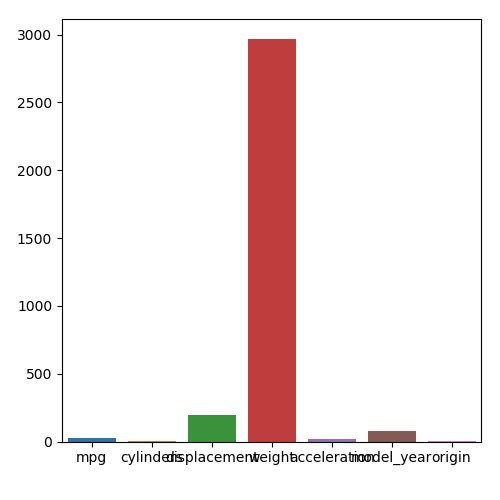
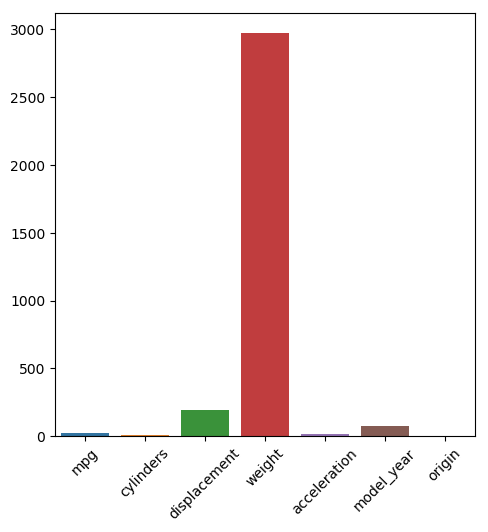
Fixed bbox size so saving figs to png doesn't chop off xtick labels

Changed region(s): [[0.0, 0.0, 0.9836, 0.99], [0.4918, 0.06, 0.6148, 0.09]]

diff --git a/DataVis.py b/DataVis.py
@@ -11,7 +11,7 @@ import DV_DC_Control_Panels
 import DV_DC_Listbox
 import DV_EDA_Control_Panels
 import DV_EDA_Listbox
-import DV_Table
+import DV_DC_Table
 import DV_Toolbar
 
 
@@ -56,11 +56,11 @@ class DataVis():
         # Create tab for data cleaning
         #############################
         self.DC_Bottom_Pane = DC_Bottom_Pane = tk.PanedWindow(note)
-        DC_Bottom_Pane.config(orient='vertical', bd=1, sashwidth=4, bg='black')
+        DC_Bottom_Pane.config(orient='vertical', sashwidth=4)
         DC_Bottom_Pane.grid(sticky='nsew')
 
         self.DC_Top_Pane = DC_Top_Pane = tk.PanedWindow(DC_Bottom_Pane)
-        DC_Top_Pane.config(orient='horizontal', bd=1, sashwidth=4, bg='black')
+        DC_Top_Pane.config(orient='horizontal', sashwidth=4)
         DC_Top_Pane.grid(sticky='nsew')
         DC_Bottom_Pane.add(DC_Top_Pane, stretch='always')
 
@@ -81,7 +81,7 @@ class DataVis():
         DC_Table_Frame.grid_columnconfigure(0, weight=1)
         DC_Top_Pane.add(DC_Table_Frame, stretch='always')
 
-        self.table = table = DV_Table.DV_Table(DC_Table_Frame)
+        self.table = table = DV_DC_Table.DV_DC_Table(DC_Table_Frame)
         table.grid(sticky='nsew')
         
         # add various control frames here
@@ -113,7 +113,7 @@ class DataVis():
         EDA_Top_Pane.add(EDA_Listbox_Frame, stretch='never')
 
         self.EDA_Canvas_Frame = EDA_Canvas_Frame = tk.Frame(EDA_Top_Pane)
-        EDA_Canvas_Frame.config(bg='orange')
+        EDA_Canvas_Frame.config(bg='black')
         EDA_Canvas_Frame.grid(sticky='nsew')
         EDA_Canvas_Frame.grid_rowconfigure(0, weight=1)
         EDA_Canvas_Frame.grid_columnconfigure(0, weight=1)
@@ -123,19 +123,27 @@ class DataVis():
         #self.EDA_Canvas = EDA_Canvas = FigureCanvasTkAgg(fig, master=EDA_Canvas_Frame)
         #EDA_Canvas.get_tk_widget().grid(sticky='nsew')
 
-        self.pp_controls = pp_controls = DV_EDA_Control_Panels.PP_Frame(EDA_Controls_Frame, EDA_Canvas_Frame)
-        #self.pp_controls = pp_controls = ppControlsTest.PP_Frame(EDA_Controls_Frame, EDA_Canvas)
-        self.cm_controls = cm_controls = DV_EDA_Control_Panels.CM_Frame(EDA_Controls_Frame, EDA_Canvas_Frame)
-        self.bp_controls = bp_controls = DV_EDA_Control_Panels.BP_Frame(EDA_Controls_Frame, EDA_Canvas_Frame)
-        self.sp_controls = sp_controls = DV_EDA_Control_Panels.SP_Frame(EDA_Controls_Frame, EDA_Canvas_Frame)
-        self.pca_controls = pca_controls = DV_EDA_Control_Panels.PCA_Frame(EDA_Controls_Frame, EDA_Canvas_Frame)
+        pp_controls = DV_EDA_Control_Panels.PP_Frame(EDA_Controls_Frame, EDA_Canvas_Frame)
+        #pp_controls = ppControlsTest.PP_Frame(EDA_Controls_Frame, EDA_Canvas)
+        cm_controls = DV_EDA_Control_Panels.CM_Frame(EDA_Controls_Frame, EDA_Canvas_Frame)
+        bp_controls = DV_EDA_Control_Panels.BP_Frame(EDA_Controls_Frame, EDA_Canvas_Frame)
+        sp_controls = DV_EDA_Control_Panels.SP_Frame(EDA_Controls_Frame, EDA_Canvas_Frame)
+        pca_controls = DV_EDA_Control_Panels.PCA_Frame(EDA_Controls_Frame, EDA_Canvas_Frame)
+        placeholder_frame = tk.Frame(EDA_Controls_Frame)
+        placeholder_frame.grid(row=0, column=0, sticky='nsew')
+        placeholder_frame.grid_rowconfigure(0, weight=1)
+        placeholder_frame.grid_columnconfigure(0, weight=1)
+        hint_frame = tk.Frame(placeholder_frame)
+        hint_frame.grid(row=0, column=0)
+        select_start = tk.Label(hint_frame, text='Select a graph type to begin EDA')
+        select_start.grid(sticky='nsew')
 
         self.control_frames = control_frames = {}
 
         for frame in (pp_controls, cm_controls, bp_controls, sp_controls, pca_controls):
             frame.grid(row=0, column=0, sticky='nsew')
             control_frames[frame._name] = frame
-        pp_controls.tkraise()
+        placeholder_frame.tkraise()
 
         self.EDA_Listbox = EDA_Listbox = DV_EDA_Listbox.EDA_Listbox(EDA_Listbox_Frame, EDA_Canvas_Frame, control_frames)
 

diff --git a/DV_EDA_Listbox.py b/DV_EDA_Listbox.py
@@ -182,7 +182,7 @@ class EDA_Listbox(tk.Listbox):
                     # create and display custom graph
                     plt.clf()
                     cm = sns.heatmap(data=data, annot=cm_annot, cbar=cm_cbar, square=cm_square)
-                    cm.get_figure().savefig('cm.png')
+                    cm.get_figure().savefig('cm.png', bbox_inches='tight')
                     """
                     fig.clear()
                     a = fig.add_subplot(111)
@@ -203,7 +203,7 @@ class EDA_Listbox(tk.Listbox):
                     data = data.corr()
                     plt.clf()
                     cm = sns.heatmap(data=data)
-                    cm.get_figure().savefig('cm.png')
+                    cm.get_figure().savefig('cm.png', bbox_inches='tight')
                     """
                     fig.clear()
                     a = fig.add_subplot(111)
@@ -271,7 +271,8 @@ class EDA_Listbox(tk.Listbox):
                     # create and display custom graph
                     plt.clf()
                     bp = sns.barplot(data=data, x=bp_x, y=bp_y, hue=bp_hue, ci=bp_ci)
-                    bp.figure.savefig('bp.png')
+                    plt.xticks(rotation=45)
+                    bp.figure.savefig('bp.png', bbox_inches='tight')
                     """
                     fig.clear()
                     a = fig.add_subplot(111)
@@ -291,7 +292,8 @@ class EDA_Listbox(tk.Listbox):
                     data = data.dropna()
                     plt.clf()
                     bp = sns.barplot(data=data, x='month', y='passengers', ci=None)
-                    bp.figure.savefig('bp.png')
+                    plt.xticks(rotation=45)
+                    bp.figure.savefig('bp.png', bbox_inches='tight')
                     """
                     fig.clear()
                     a = fig.add_subplot(111)

diff --git a/DV_EDA_Control_Panels.py b/DV_EDA_Control_Panels.py
@@ -329,7 +329,7 @@ class CM_Frame(tk.Frame):
         """
         plt.clf()
         cm = sns.heatmap(data=self.data, annot=preview_annot, cbar=preview_cbar, square=preview_square)
-        cm.get_figure().savefig('cm.png')
+        cm.get_figure().savefig('cm.png', bbox_inches='tight')
         file = 'cm.png'
         canvas = DV_ZoomableCanvas.ZoomCanvas(canvas_frame, file)
         canvas.grid()
@@ -361,7 +361,7 @@ class CM_Frame(tk.Frame):
         """
         plt.clf()
         cm = sns.heatmap(data=self.data, annot=apply_annot, cbar=apply_cbar, square=apply_square)
-        cm.get_figure().savefig('cm.png')
+        cm.get_figure().savefig('cm.png', bbox_inches='tight')
         file = 'cm.png'
         canvas = DV_ZoomableCanvas.ZoomCanvas(canvas_frame, file)
         canvas.grid()
@@ -546,7 +546,8 @@ class BP_Frame(tk.Frame):
 
         plt.clf()
         bp = sns.barplot(data=self.data, x=preview_x, y=preview_y, hue=preview_hue, ci=preview_ci)
-        bp.figure.savefig('bp.png')
+        plt.xticks(rotation=45)
+        bp.figure.savefig('bp.png', bbox_inches='tight')
         """
         fig.clear()
         a = fig.add_subplot(111)
@@ -596,7 +597,8 @@ class BP_Frame(tk.Frame):
 
         plt.clf()
         bp = sns.barplot(data=self.data, x=apply_x, y=apply_y, hue=apply_hue, ci=apply_ci)
-        bp.figure.savefig('bp.png')
+        plt.xticks(rotation=45)
+        bp.figure.savefig('bp.png', bbox_inches='tight')
         """
         fig.clear()
         a = fig.add_subplot(111)

diff --git a/DV_DC_Table.py b/DV_DC_Table.py
@@ -3,7 +3,7 @@ from configparser import ConfigParser
 import pandas as pd
 import seaborn as sns
 
-class DV_Table(tk.Frame):
+class DV_DC_Table(tk.Frame):
     def __init__(self, root):
 
         tk.Frame.__init__(self, root)
@@ -46,12 +46,15 @@ class DV_Table(tk.Frame):
         col_num = 0
         for column in data:
             column_header = tk.Label(
-                self.inner_frame, text=str(column), relief='raised')
+                self.inner_frame, text=str(column), relief='raised', bg='snow3')
             column_header.grid(row=0, column=col_num, sticky='ew')
             row_num = 1
             for row in data[column]:
+                bg_color = 'snow'
+                if row_num % 2 == 0:
+                    bg_color = 'snow2'
                 column_data = tk.Label(
-                    self.inner_frame, text=str(row), relief='ridge')
+                    self.inner_frame, text=str(row), relief='ridge', bg=bg_color)
                 column_data.grid(row=row_num, column=col_num, sticky='ew')
                 row_num += 1
             col_num += 1
